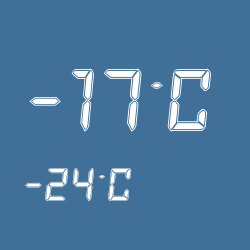
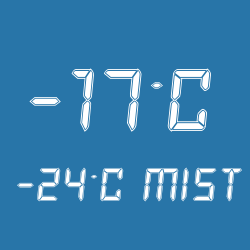
отладка main.py

Changed region(s): [[0.056, 0.644, 0.532, 0.812], [0.56, 0.672, 0.98, 0.812]]

diff --git a/main.py b/main.py
@@ -48,7 +48,17 @@ def get_feels(weather_data):
 def get_weather(location, api_key):
     url = f'https://api.openweathermap.org/data/2.5/weather?id={location}&units=metric&appid={api_key}'
     r = requests.get(url)
-    r1 = {"coord":{"lon":76.95,"lat":43.25},"weather":[{"id":701,"main":"Mist","description":"mist","icon":"50d"}],"base":"stations","main":{"temp":266.1,"feels_like":261.18,"temp_min":266.1,"temp_max":266.1,"pressure":1030,"humidity":86},"visibility":1000,"wind":{"speed":3,"deg":340},"clouds":{"all":100},"dt":1708772797,"sys":{"type":1,"id":8818,"country":"KZ","sunrise":1708738694,"sunset":1708777992},"timezone":21600,"id":1526384,"name":"Almaty","cod":200}
+    """ r1 = {
+        "coord": {"lon":76.95,"lat":43.25},
+        "weather":[{"id":701,"main":"Mist","description":"mist","icon":"50d"}],
+        "base":"stations",
+        "main":{"temp":266.1,"feels_like":261.18,"temp_min":266.1,"temp_max":266.1,"pressure":1030,"humidity":86},
+        "visibility":1000,
+        "wind":{"speed":3,"deg":340},
+        "clouds":{"all":100},
+        "dt":1708772797,
+        "sys":{"type":1,"id":8818,"country":"KZ","sunrise":1708738694,"sunset":1708777992},
+        "timezone":21600,"id":1526384,"name":"Almaty","cod":200} """
     return r.json()
 
 def generate_temperature_image(temperature, feels):

diff --git a/image.py b/image.py
@@ -36,7 +36,7 @@ def map_temperature_to_color(temperature, min_temp, max_temp):
 
 def generate_temperature_image(temperature, feels):
     # Создаем изображение с заданным размером
-    image = Image.new('RGBA', (250, 250), map_temperature_to_color(temperature, -30, 40))
+    image = Image.new('RGBA', (250, 250), map_temperature_to_color(temperature, -20, 20))
     draw = ImageDraw.Draw(image)
     
     # Преобразуем температуру в строку
@@ -56,7 +56,7 @@ def generate_temperature_image(temperature, feels):
     
     # Рисуем текст на изображении
     draw.text((x_start, TEXT_Y_POSITION), f'{temperature}{celsius}', align="center", font=font_main)
-    draw.text((20, TEXT_ADD_Y_POSITION), f'{feels}{celsius} туман', align="center", font=font_add)
+    draw.text((12, TEXT_ADD_Y_POSITION), f'{feels}{celsius} mist', align="center", font=font_add)
     
     image.save(f'temp-a.png', "PNG")
 
